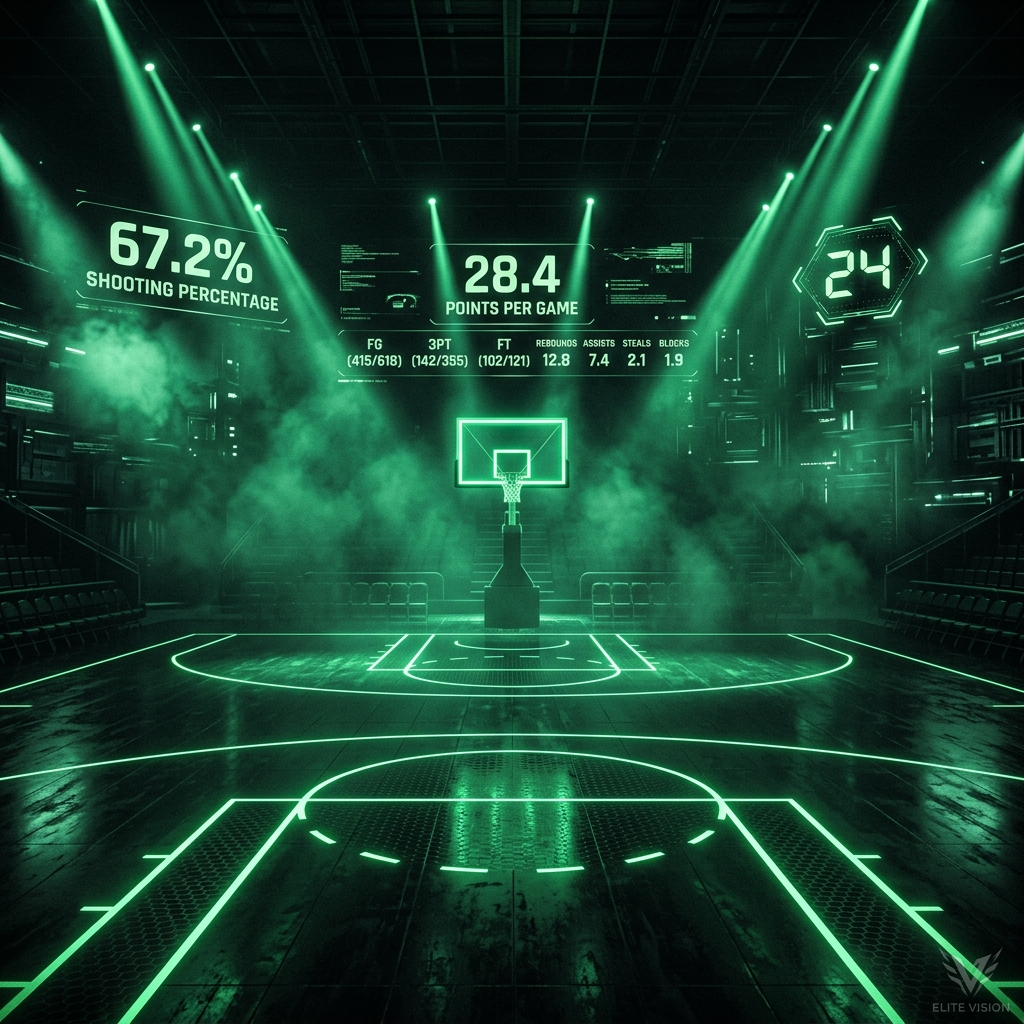
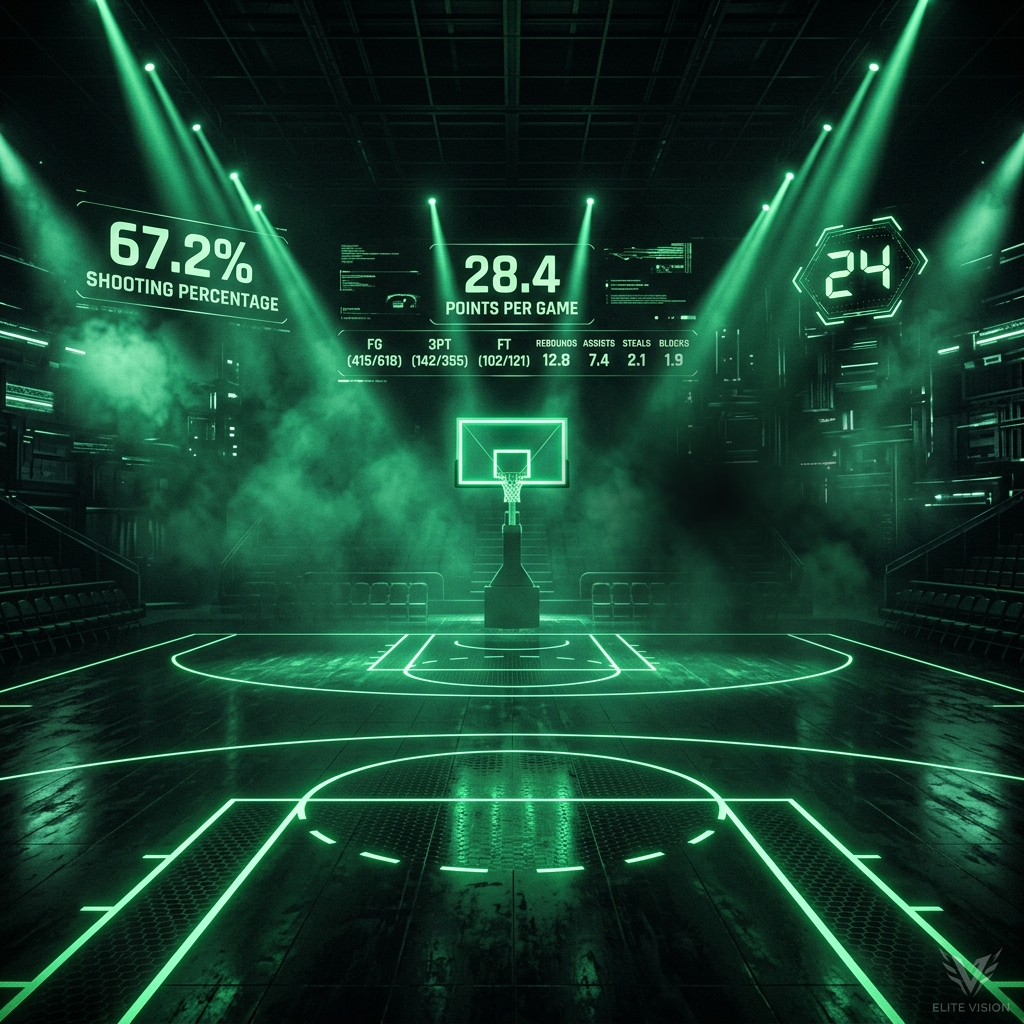
fix: resolve background image visibility, canvas layering, and erase duplicate green ball from hero background image

Changed region(s): [[0.5625, 0.3438, 0.8438, 0.625]]

diff --git a/src/app/layout.tsx b/src/app/layout.tsx
@@ -38,12 +38,14 @@ export default function RootLayout({
   children: React.ReactNode;
 }>) {
   return (
-    <html lang="en" className={`${geistSans.variable} ${geistMono.variable} ${spaceGrotesk.variable} bg-[#050816]`}>
+    <html lang="en" className={`${geistSans.variable} ${geistMono.variable} ${spaceGrotesk.variable}`}>
       <body
-        className="antialiased overflow-x-hidden bg-transparent text-[#f9fafb]"
+        className="antialiased overflow-x-hidden bg-[#050816] text-[#f9fafb]"
       >
         <Global3DBackground />
-        {children}
+        <div className="relative z-10 min-h-screen bg-transparent">
+          {children}
+        </div>
       </body>
     </html>
   );

diff --git a/src/components/HeroSection.tsx b/src/components/HeroSection.tsx
@@ -186,8 +186,8 @@ export default function HeroSection() {
       className="relative w-full min-h-screen overflow-hidden bg-transparent"
       style={{ fontFamily: "var(--font-space-grotesk), sans-serif" }}
     >
-      {/* ── Dark overlay for text legibility ── */}
-      <div className="absolute inset-0 z-10 pointer-events-none bg-gradient-to-r from-[#050816]/95 via-[#050816]/75 to-transparent" />
+      {/* ── HUD Court Background ── */}
+      <HUDBackground mouseX={rawMouseX} mouseY={rawMouseY} />
 
       {/* ── Scan lines ── */}
       <ScanLines />

diff --git a/src/components/3d/BasketballOrb.tsx b/src/components/3d/BasketballOrb.tsx
@@ -463,7 +463,7 @@ export default function BasketballOrb() {
   }, [scrollSpeed]);
 
   return (
-    <div className="fixed inset-0 w-full h-full pointer-events-none -z-10 bg-transparent">
+    <div className="fixed inset-0 w-full h-full pointer-events-none z-0 bg-transparent">
       <Canvas
         gl={{ antialias: true, alpha: true }}
         dpr={[1, 1.5]}